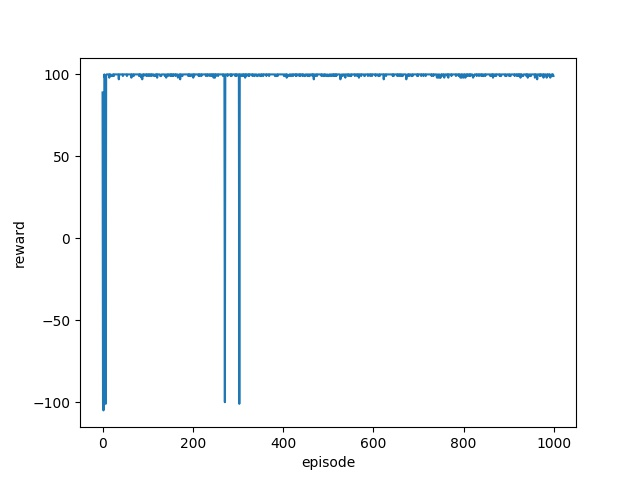
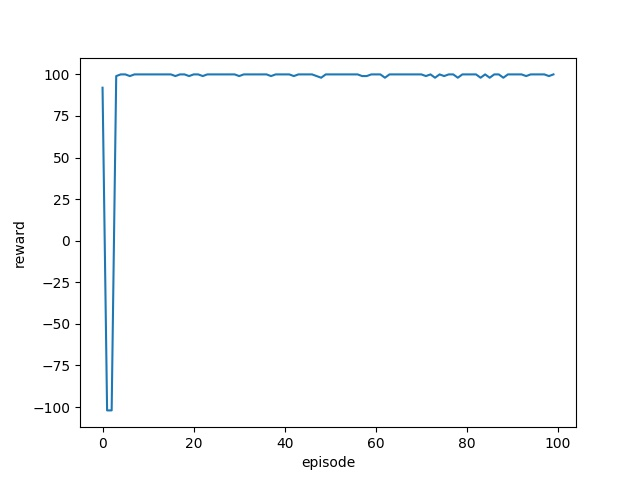
細かい修正

diff --git a/main.py b/main.py
@@ -1,33 +1,43 @@
-import copy
 import numpy as np
-import matplotlib
 import matplotlib.pyplot as plt
-
 from qlearning_agent import QLearningAgent
 from grid_world import GridWorld
 
+# 定数
+NB_EPISODE = 100    # エピソード数
+EPSILON = .1    # 探索率
+ALPHA = .1      # 学習率
+GAMMA = .90     # 割引率
+ACTIONS = np.arange(4)  # 行動の集合
 
 if __name__ == '__main__':
-    grid_env = GridWorld() # grid worldの環境の初期化
+    grid_env = GridWorld()  # grid worldの環境の初期化
     ini_state = grid_env.start_pos  # 初期状態（エージェントのスタート地点の位置）
-    agent = QLearningAgent(epsilon=.1, actions=np.arange(4), observation=ini_state)  # Q学習エージェント
-    nb_episode = 1000   #エピソード数
+    # エージェントの初期化
+    agent = QLearningAgent(
+        alpha=ALPHA,
+        gamma=GAMMA,
+        epsilon=EPSILON,  # 探索率
+        actions=ACTIONS,   # 行動の集合
+        observation=ini_state)  # Q学習エージェント
     rewards = []    # 評価用報酬の保存
-    is_end_episode = False # エージェントがゴールしてるかどうか？
-    for episode in range(nb_episode):
-        episode_reward = [] # 1エピソードの累積報酬
+    is_end_episode = False  # エージェントがゴールしてるかどうか？
+
+    # 実験
+    for episode in range(NB_EPISODE):
+        episode_reward = []  # 1エピソードの累積報酬
         while(is_end_episode == False):    # ゴールするまで続ける
             action = agent.act()  # 行動選択
             state, reward, is_end_episode = grid_env.step(action)
             agent.observe(state, reward)   # 状態と報酬の観測
             episode_reward.append(reward)
-        rewards.append(np.sum(episode_reward)) # このエピソードの平均報酬を与える
-        state = grid_env.reset()    #  初期化
+        rewards.append(np.sum(episode_reward))  # このエピソードの平均報酬を与える
+        state = grid_env.reset()  # 初期化
         agent.observe(state)    # エージェントを初期位置に
         is_end_episode = False
 
     # 結果のプロット
-    plt.plot(np.arange(nb_episode), rewards)
+    plt.plot(np.arange(NB_EPISODE), rewards)
     plt.xlabel("episode")
     plt.ylabel("reward")
     plt.savefig("result.jpg")

diff --git a/qlearning_agent.py b/qlearning_agent.py
@@ -1,11 +1,19 @@
 import copy
 import numpy as np
 
+
 class QLearningAgent:
     """
-        Q学習 
+        Q学習 エージェント
     """
-    def __init__(self, alpha=.2, epsilon=.1, gamma=.99, actions=None, observation=None):
+
+    def __init__(
+            self,
+            alpha=.2,
+            epsilon=.1,
+            gamma=.99,
+            actions=None,
+            observation=None):
         self.alpha = alpha
         self.gamma = gamma
         self.epsilon = epsilon
@@ -27,7 +35,7 @@ class QLearningAgent:
 
     def init_state(self):
         """
-            状態の初期化 
+            状態の初期化
         """
         self.previous_state = copy.deepcopy(self.ini_state)
         self.state = copy.deepcopy(self.ini_state)
@@ -45,10 +53,10 @@ class QLearningAgent:
 
     def observe(self, next_state, reward=None):
         """
-            次の状態と報酬の観測 
+            次の状態と報酬の観測
         """
         next_state = str(next_state)
-        if next_state not in self.q_values: # 始めて訪れる状態であれば
+        if next_state not in self.q_values:  # 始めて訪れる状態であれば
             self.q_values[next_state] = np.repeat(0.0, len(self.actions))
 
         self.previous_state = copy.deepcopy(self.state)
@@ -60,9 +68,10 @@ class QLearningAgent:
 
     def learn(self, reward):
         """
-            Q値の更新 
+            Q値の更新
         """
-        q = self.q_values[self.previous_state][self.previous_action] # Q(s, a)
-        max_q = max(self.q_values[self.state]) # max Q(s')
+        q = self.q_values[self.previous_state][self.previous_action]  # Q(s, a)
+        max_q = max(self.q_values[self.state])  # max Q(s')
         # Q(s, a) = Q(s, a) + alpha*(r+gamma*maxQ(s')-Q(s, a))
-        self.q_values[self.previous_state][self.previous_action] = q + (self.alpha * (reward + (self.gamma*max_q) - q))
+        self.q_values[self.previous_state][self.previous_action] = q + \
+            (self.alpha * (reward + (self.gamma * max_q) - q))

diff --git a/grid_world.py b/grid_world.py
@@ -1,33 +1,30 @@
 import copy
 
+
 class GridWorld:
 
     def __init__(self):
 
         self.filed_type = {
-                "N": 0,  # 通常
-                "G": 1,  # ゴール
-                "W": 2,  # 壁
-                "T": 3,  # トラップ
-                }
-
+            "N": 0,  # 通常
+            "G": 1,  # ゴール
+            "W": 2,  # 壁
+            "T": 3,  # トラップ
+        }
         self.actions = {
-            "UP": 0, 
-            "DOWN": 1, 
-            "LEFT": 2, 
+            "UP": 0,
+            "DOWN": 1,
+            "LEFT": 2,
             "RIGHT": 3
-            }
-
+        }
         self.map = [[3, 2, 0, 1],
                     [0, 0, 0, 2],
                     [0, 0, 2, 0],
                     [2, 0, 2, 0],
                     [0, 0, 0, 0]]
 
-
         self.start_pos = 0, 4   # エージェントのスタート地点(x, y)
         self.agent_pos = copy.deepcopy(self.start_pos)  # エージェントがいる地点
-
 
     def step(self, action):
         """
@@ -49,7 +46,7 @@ class GridWorld:
         elif action == self.actions["RIGHT"]:
             to_x += 1
 
-        is_goal = self._is_end_episode(to_x, to_y) # エピソードの終了の確認
+        is_goal = self._is_end_episode(to_x, to_y)  # エピソードの終了の確認
         reward = self._compute_reward(to_x, to_y)
         self.agent_pos = to_x, to_y
         return self.agent_pos, reward, is_goal
@@ -75,7 +72,7 @@ class GridWorld:
             return False
 
     def _is_possible_action(self, x, y, action):
-        """ 
+        """
             実行可能な行動かどうかの判定
         """
         to_x = x

diff --git a/README.md b/README.md
@@ -1,14 +1,22 @@
 # Q Learning in Grid World
 
-## How to run
+## 環境
+- python 3.6
 
-1.Clone this repository
+## 各ファイルについて
+- grid_world.py:グリッドワールド
+- qlearning_agent.py:Q学習エージェント
+- main.py:実験実行用のプログラム
 
-2.Run this qlearning sample, 
+## 実行方法
+
+1. このリポジトリをクローン
+
+2. main.pyを実行
 
 ```
 python main.py
 ```
 
-## blog(japanese)
+## blog
 https://www.tcom242242.net/entry/2019/08/01/%e3%80%90%e5%bc%b7%e5%8c%96%e5%ad%a6%e7%bf%92%e3%80%81%e5%85%a5%e9%96%80%e3%80%91q%e5%ad%a6%e7%bf%92_%e8%bf%b7%e8%b7%af%e3%82%92%e4%be%8b%e3%81%ab/
